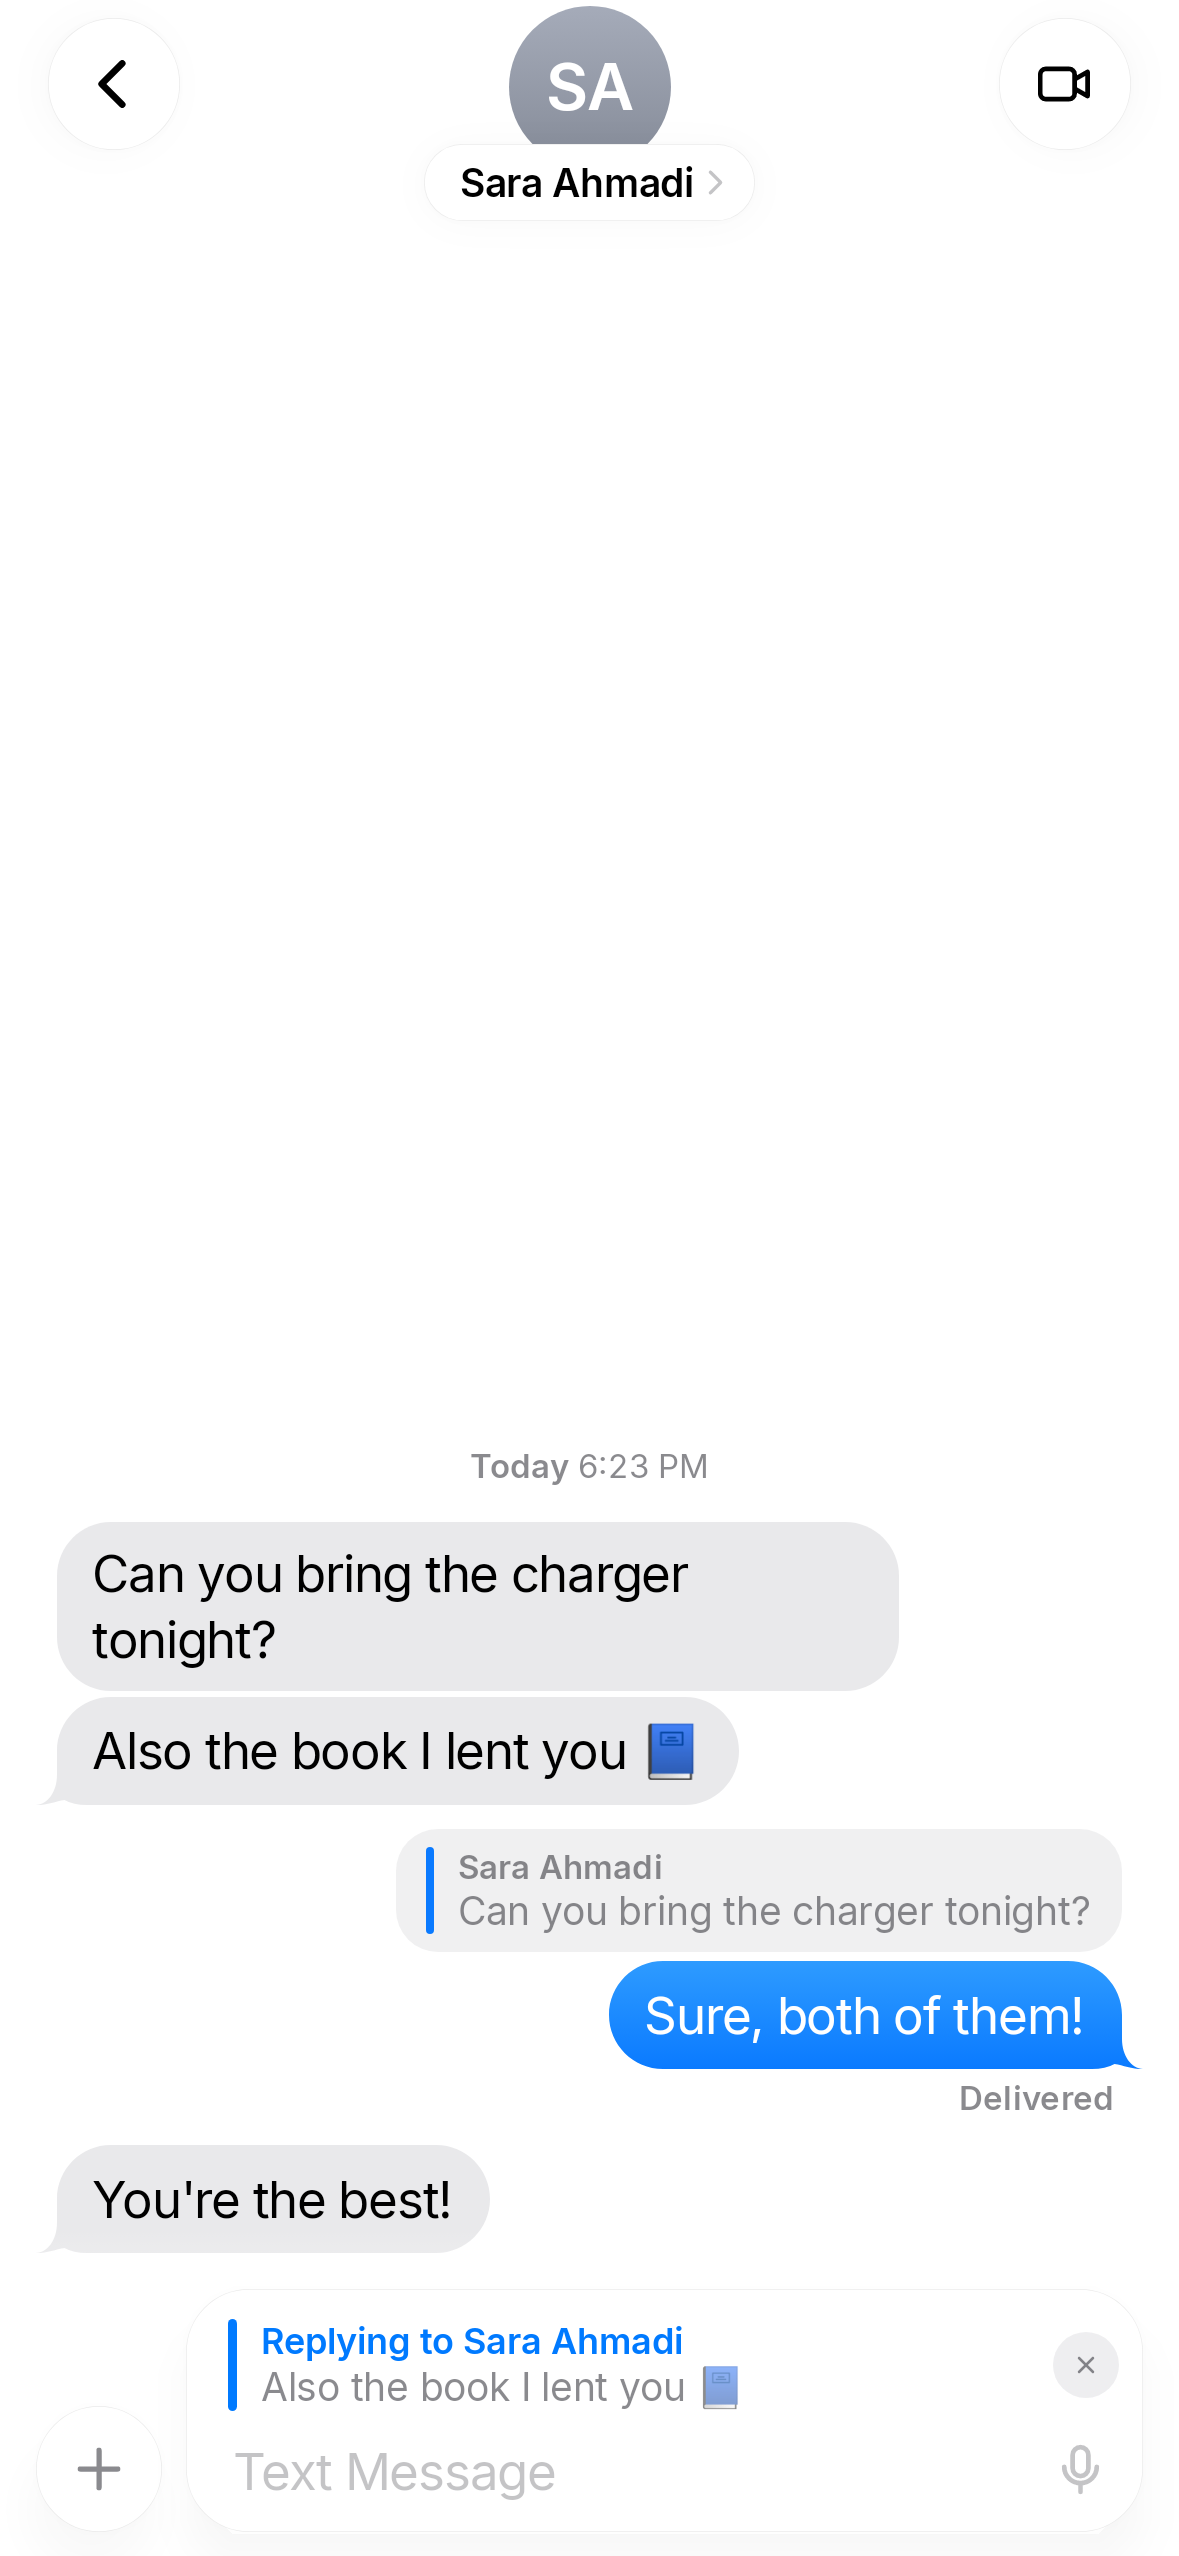
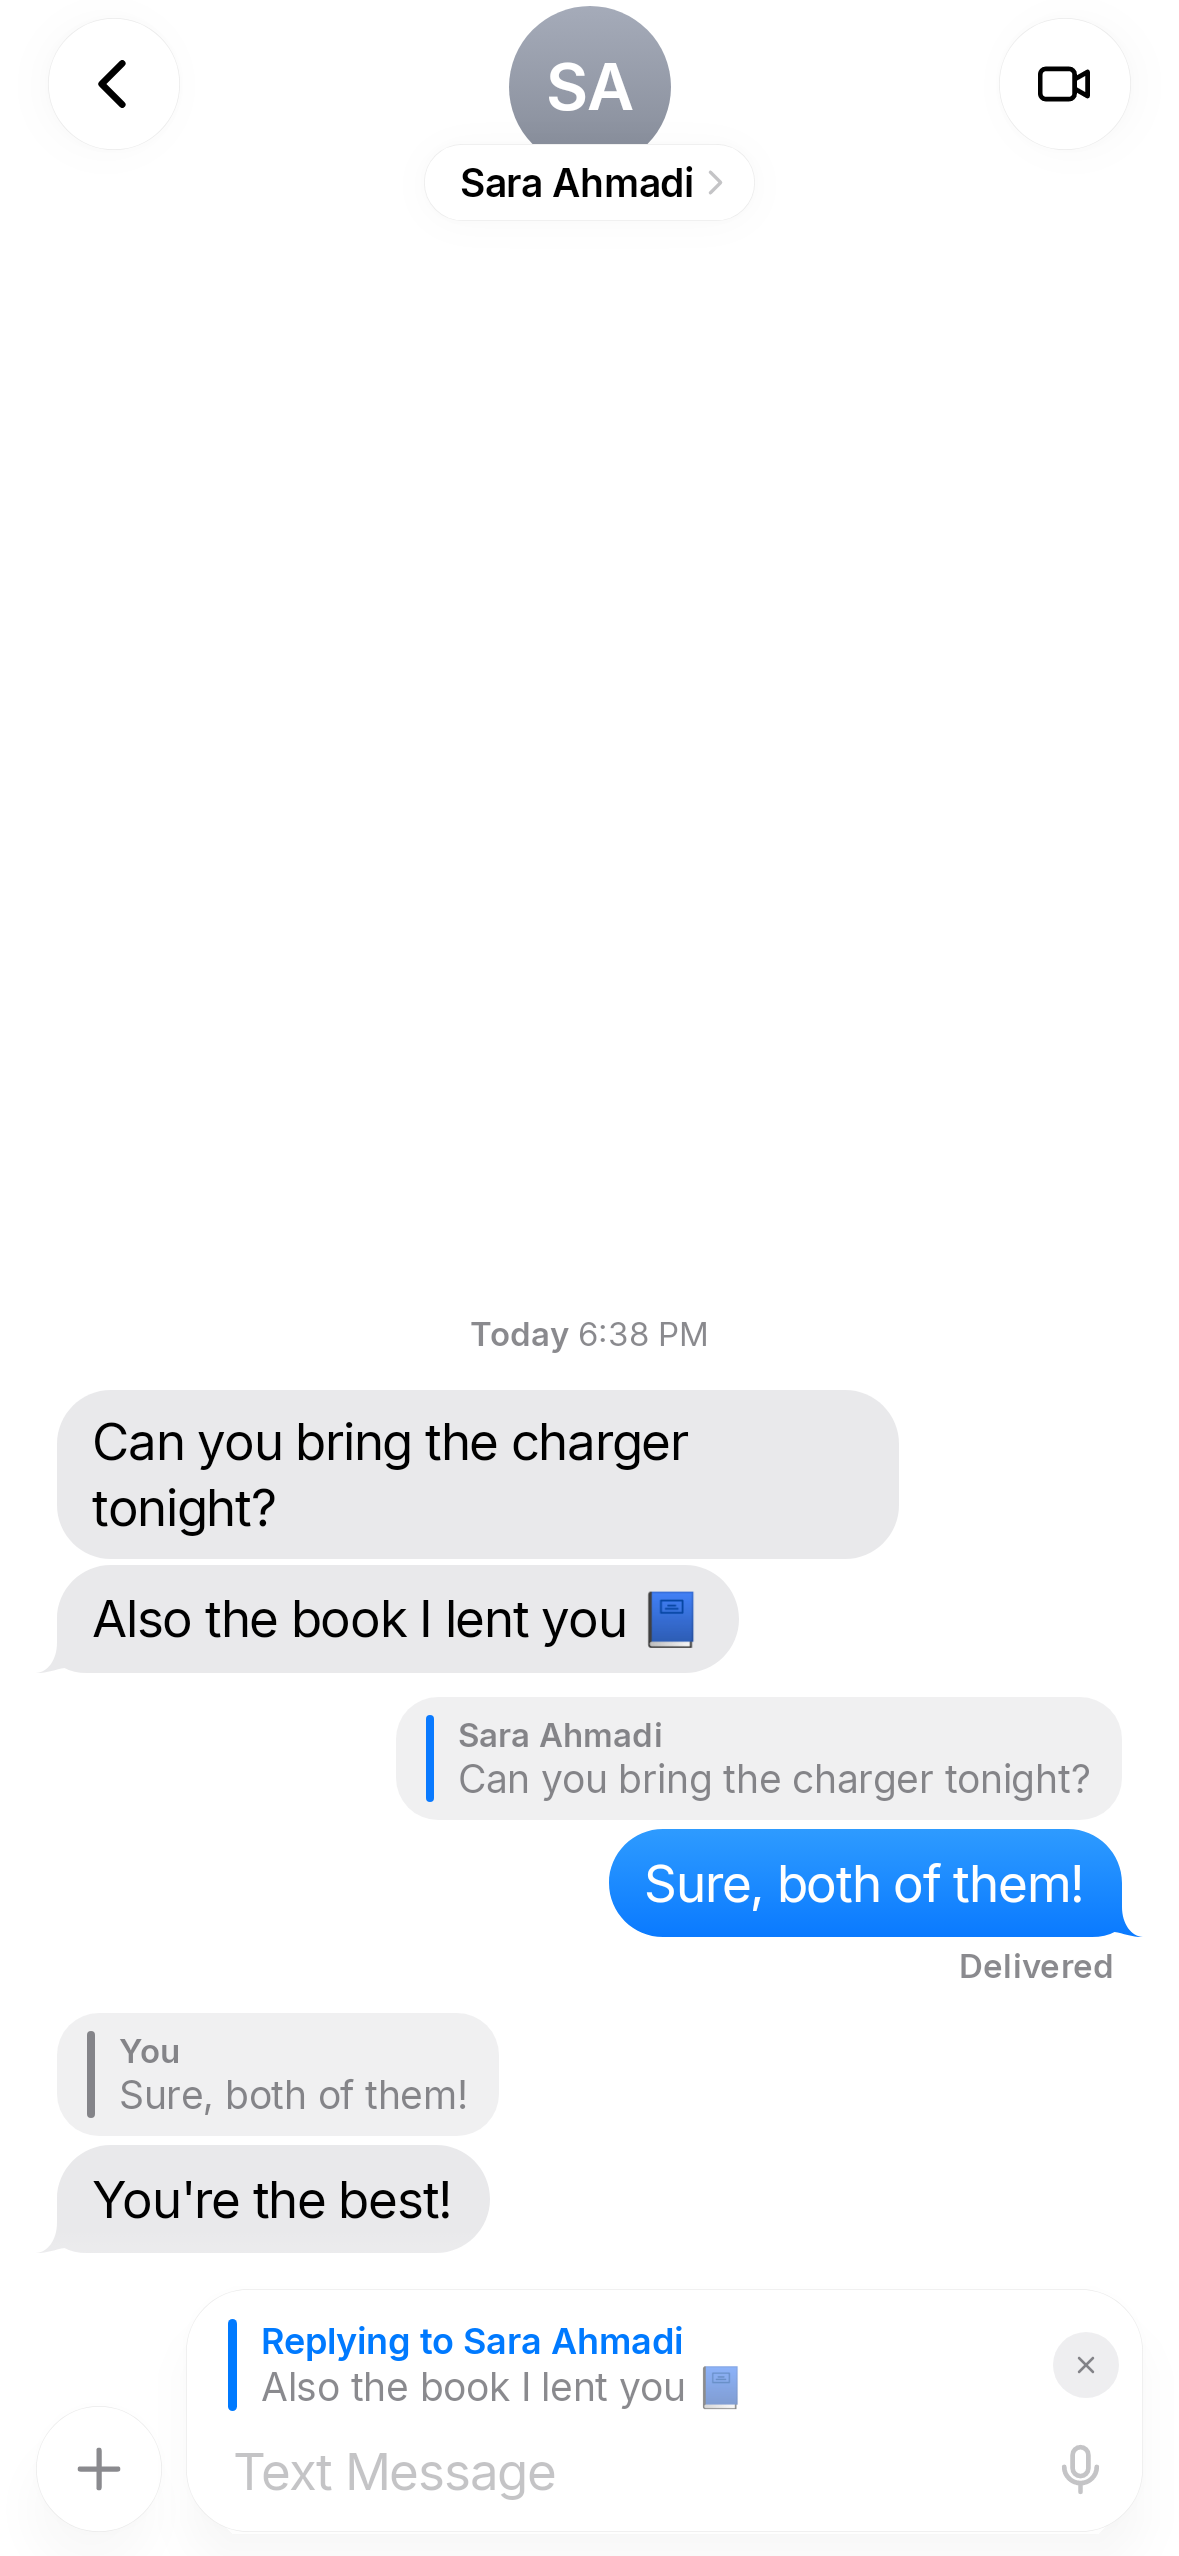
Send replies to the recipient as a quote line
Replies now start with "↪ «short quote»" so the other phone's Liquid
Messages links them to the original (matched by text), while any other
app shows a readable quote. MessageText centralises what's visible
(quote and effect lines removed) for bubbles, previews, copy and
notifications.

diff --git a/app/src/main/java/com/liquidglass/messages/data/model/MessageText.kt b/app/src/main/java/com/liquidglass/messages/data/model/MessageText.kt
@@ -1,0 +1,70 @@
+package com.liquidglass.messages.data.model
+
+import com.liquidglass.messages.data.location.LocationLink
+
+/**
+ * Carries a reply inside a plain SMS as a short quote on the first line —
+ * readable in any messaging app, and turned back into a linked reply by
+ * Liquid Messages on the other phone:
+ *
+ *     ↪ «Can you bring the charger…»
+ *     Sure, both of them!
+ */
+object ReplyTag {
+
+    /** Longest quoted snippet; keeps the SMS from spilling into a second part. */
+    const val MAX_SNIPPET = 30
+    private const val ELLIPSIS = "…"
+
+    private val lineRegex = Regex("""^\s*↪\s*«(.{1,${MAX_SNIPPET + 2}}?)»[ \t]*(?:\r?\n|$)""")
+
+    data class Parsed(val text: String, val quote: String?)
+
+    /** Prefixes [body] with a quote of [original] (the message being answered). */
+    fun format(original: Message, body: String): String = "↪ «${snippet(original)}»\n$body"
+
+    fun parse(body: String): Parsed {
+        val m = lineRegex.find(body) ?: return Parsed(body, null)
+        return Parsed(body.substring(m.range.last + 1).trimStart('\n', '\r'), m.groupValues[1])
+    }
+
+    /** One-line, length-capped summary of a message for quoting. */
+    fun snippet(m: Message): String {
+        val text = MessageText.summary(m).replace(Regex("\\s+"), " ").trim()
+        return if (text.length <= MAX_SNIPPET) text else text.take(MAX_SNIPPET - 1).trimEnd() + ELLIPSIS
+    }
+
+    /**
+     * Finds the message a received quote refers to: the newest earlier message
+     * whose summary starts with the quote (ignoring whitespace and the ellipsis).
+     */
+    fun findQuoted(quote: String, reply: Message, thread: List<Message>): Message? {
+        val needle = normalize(quote.removeSuffix(ELLIPSIS))
+        if (needle.isEmpty()) return null
+        return thread.lastOrNull { m ->
+            m.id != reply.id && m.timestamp <= reply.timestamp && normalize(MessageText.summary(m)).startsWith(needle)
+        }
+    }
+
+    private fun normalize(s: String) = s.replace(Regex("\\s+"), " ").trim().lowercase()
+}
+
+/** The human-visible parts of a stored message body. */
+object MessageText {
+
+    /** Body with the reply quote line and the effect line removed. */
+    fun visible(body: String): String = EffectTag.strip(ReplyTag.parse(body).text)
+
+    /** Short description used for previews, quotes and notifications. */
+    fun summary(m: Message): String {
+        val visible = visible(m.body)
+        val loc = LocationLink.parse(visible)
+        return when {
+            loc != null -> loc.remainingText.ifBlank { "📍 " + (loc.label ?: "Location") }
+            visible.isBlank() && m.attachments.any { it.isImage } -> "📷 Photo"
+            visible.isBlank() && m.attachments.any { it.isVideo } -> "🎬 Video"
+            visible.isBlank() && m.attachments.isNotEmpty() -> "📎 Attachment"
+            else -> visible
+        }
+    }
+}

diff --git a/app/src/main/java/com/liquidglass/messages/ui/chat/ChatScreen.kt b/app/src/main/java/com/liquidglass/messages/ui/chat/ChatScreen.kt
@@ -270,15 +270,7 @@ fun ChatContent(
             state.isGroup -> state.participants[m.address]?.displayName ?: m.address
             else -> state.contact.displayName
         }
-        val visible = com.liquidglass.messages.data.model.EffectTag.strip(m.body)
-        val loc = com.liquidglass.messages.data.location.LocationLink.parse(visible)
-        val text = when {
-            loc != null -> loc.remainingText.ifBlank { "📍 " + (loc.label ?: "Location") }
-            visible.isBlank() && m.attachments.any { it.isImage } -> "📷 Photo"
-            visible.isBlank() && m.attachments.isNotEmpty() -> "📎 Attachment"
-            else -> visible
-        }
-        return ReplyPreview(author, text)
+        return ReplyPreview(author, com.liquidglass.messages.data.model.MessageText.summary(m))
     }
     val jumpScope = rememberCoroutineScope()
     var highlightId by remember { mutableStateOf<Long?>(null) }
@@ -352,8 +344,15 @@ fun ChatContent(
                                     }
                                 }
                             }
-                            val quotedId = meta?.replyTo
+                            // Our own replies are linked locally; received ones carry a
+                            // "↪ «quote»" line that is matched back to the original here.
+                            val quoteLine = remember(msg.body) { com.liquidglass.messages.data.model.ReplyTag.parse(msg.body).quote }
+                            val matchedId = remember(msg.id, quoteLine, messages.size) {
+                                quoteLine?.let { q -> com.liquidglass.messages.data.model.ReplyTag.findQuoted(q, msg, messages)?.id }
+                            }
+                            val quotedId = meta?.replyTo ?: matchedId
                             val quoted = quotedId?.let { messagesById[it] }?.let(::previewOf)
+                                ?: quoteLine?.let { ReplyPreview(author = "Reply", text = it) }
                             val bubble: @Composable () -> Unit = {
                                 MessageBubble(
                                     message = msg,
@@ -512,7 +511,7 @@ fun ChatContent(
                         menuTarget = null
                     },
                     onCopy = {
-                        copyToClipboard(context, com.liquidglass.messages.data.model.EffectTag.strip(target.body))
+                        copyToClipboard(context, com.liquidglass.messages.data.model.MessageText.visible(target.body))
                         menuTarget = null
                     },
                     onDelete = {

diff --git a/app/src/test/java/com/liquidglass/messages/data/model/ReplyTagTest.kt b/app/src/test/java/com/liquidglass/messages/data/model/ReplyTagTest.kt
@@ -1,0 +1,52 @@
+package com.liquidglass.messages.data.model
+
+import org.junit.Assert.assertEquals
+import org.junit.Assert.assertNull
+import org.junit.Assert.assertTrue
+import org.junit.Test
+
+class ReplyTagTest {
+
+    private fun msg(id: Long, body: String, out: Boolean, t: Long) =
+        Message(id = id, threadId = 1, address = "+1", body = body, timestamp = t, isOutgoing = out)
+
+    @Test
+    fun formatAndParseRoundTrip() {
+        val original = msg(1, "Can you bring the charger tonight please?", false, 1)
+        val wire = ReplyTag.format(original, "Sure, both of them!")
+        assertTrue(wire.startsWith("↪ «Can you bring the charger ton…»\n"))
+        val parsed = ReplyTag.parse(wire)
+        assertEquals("Sure, both of them!", parsed.text)
+        assertEquals("Can you bring the charger ton…", parsed.quote)
+    }
+
+    @Test
+    fun receiverFindsTheQuotedMessage() {
+        val thread = listOf(
+            msg(1, "Can you bring the charger tonight please?", true, 10),
+            msg(2, "Also the book", true, 20),
+            msg(3, "↪ «Can you bring the charger ton…»\nSure!", false, 30),
+        )
+        val quote = ReplyTag.parse(thread[2].body).quote!!
+        assertEquals(1L, ReplyTag.findQuoted(quote, thread[2], thread)!!.id)
+    }
+
+    @Test
+    fun worksWithPersianEffectsAndLocations() {
+        val loc = msg(1, "📍 My Location\nhttps://maps.google.com/?q=35.7,51.4", false, 1)
+        assertEquals("📍 My Location", ReplyTag.snippet(loc))
+        val fa = msg(2, "سلام! فردا ساعت ۵ میبینمت؟\n(Sent with Big effect)", false, 2)
+        assertEquals("سلام! فردا ساعت ۵ میبینمت؟", ReplyTag.snippet(fa))
+
+        val reply = "↪ «سلام! فردا ساعت ۵ میبینمت؟»\nآره حتماً\n(Sent with Shake effect)"
+        assertEquals("آره حتماً", MessageText.visible(reply))
+        val thread = listOf(loc, fa, msg(3, reply, true, 3))
+        assertEquals(2L, ReplyTag.findQuoted(ReplyTag.parse(reply).quote!!, thread[2], thread)!!.id)
+    }
+
+    @Test
+    fun ordinaryTextIsUntouched() {
+        assertNull(ReplyTag.parse("hello «world»").quote)
+        assertEquals("hello «world»", MessageText.visible("hello «world»"))
+    }
+}

diff --git a/app/src/main/java/com/liquidglass/messages/ui/chat/ChatViewModel.kt b/app/src/main/java/com/liquidglass/messages/ui/chat/ChatViewModel.kt
@@ -12,6 +12,7 @@ import com.liquidglass.messages.data.local.MessageMeta
 import com.liquidglass.messages.data.local.MessageMetaStore
 import com.liquidglass.messages.data.model.Contact
 import com.liquidglass.messages.data.model.EffectTag
+import com.liquidglass.messages.data.model.ReplyTag
 import com.liquidglass.messages.data.model.Message
 import com.liquidglass.messages.data.model.MessageEffect
 import com.liquidglass.messages.data.model.Reaction
@@ -243,7 +244,9 @@ class ChatViewModel(
         val group = _uiState.value.isGroup
         // The effect travels as iOS does over SMS: a readable "(Sent with … effect)"
         // line that Liquid Messages on the other phone turns back into the animation.
-        val wire = if (text.isBlank()) text else EffectTag.append(text, effect)
+        val withEffect = if (text.isBlank()) text else EffectTag.append(text, effect)
+        // Replies travel as a short quote line so the other phone can link them too.
+        val wire = if (reply != null && withEffect.isNotBlank()) ReplyTag.format(reply, withEffect) else withEffect
 
         val later = _sendLaterAt.value
         if (later != null && files.isEmpty() && !group) {

diff --git a/app/src/main/java/com/liquidglass/messages/ui/chat/MessageBubble.kt b/app/src/main/java/com/liquidglass/messages/ui/chat/MessageBubble.kt
@@ -99,12 +99,12 @@ fun MessageBubble(
     val outgoing = message.isOutgoing
     val failed = outgoing && message.status == MessageStatus.FAILED
     // A shared location renders as a map card; any other text stays a bubble.
-    val visibleBody = remember(message.body) { EffectTag.strip(message.body) }
+    val visibleBody = remember(message.body) { com.liquidglass.messages.data.model.MessageText.visible(message.body) }
     val location = remember(visibleBody) { LocationLink.parse(visibleBody) }
     val bodyText = location?.remainingText ?: visibleBody
     val rtl = TextDirection.isRtl(bodyText)
     val jumbo = remember(message.body) {
-        val visible = EffectTag.strip(message.body)
+        val visible = com.liquidglass.messages.data.model.MessageText.visible(message.body)
         jumboEmojiCount(LocationLink.parse(visible)?.remainingText ?: visible)
     }
 

diff --git a/app/src/main/java/com/liquidglass/messages/ui/conversations/ConversationRow.kt b/app/src/main/java/com/liquidglass/messages/ui/conversations/ConversationRow.kt
@@ -187,7 +187,7 @@ fun ConversationRow(
                 }
                 Text(
                     text = remember(conversation.snippet) {
-                        val visible = com.liquidglass.messages.data.model.EffectTag.strip(conversation.snippet)
+                        val visible = com.liquidglass.messages.data.model.MessageText.visible(conversation.snippet)
                         val loc = com.liquidglass.messages.data.location.LocationLink.parse(visible)
                         if (loc == null) visible
                         else loc.remainingText.ifBlank { "📍 " + (loc.label ?: "Location") }

diff --git a/app/src/main/java/com/liquidglass/messages/data/receiver/SmsDeliverReceiver.kt b/app/src/main/java/com/liquidglass/messages/data/receiver/SmsDeliverReceiver.kt
@@ -76,7 +76,7 @@ class SmsDeliverReceiver : BroadcastReceiver() {
                     threadId = threadId,
                     address = address,
                     // Notification shows the text without an "(Sent with … effect)" line.
-                    body = com.liquidglass.messages.data.model.EffectTag.strip(body),
+                    body = com.liquidglass.messages.data.model.MessageText.visible(body),
                     timestamp = timestamp,
                     isOutgoing = false,
                     status = com.liquidglass.messages.data.model.MessageStatus.RECEIVED,

diff --git a/app/src/test/java/com/liquidglass/messages/ReadmeScreenshots.kt b/app/src/test/java/com/liquidglass/messages/ReadmeScreenshots.kt
@@ -112,7 +112,8 @@ class ReadmeScreenshots {
             m(1, "Can you bring the charger tonight?", false, 20),
             m(2, "Also the book I lent you 📘", false, 19),
             m(3, "Sure, both of them!", true, 5, MessageStatus.DELIVERED),
-            m(4, "You're the best!\n(Sent with Big effect)", false, 2),
+            // A reply that arrived from another phone: quote line + effect line.
+            m(4, "↪ «Sure, both of them!»\nYou're the best!\n(Sent with Big effect)", false, 2),
         )
         ChatContent(
             state = ChatUiState(

diff --git a/CHANGELOG.md b/CHANGELOG.md
@@ -2,6 +2,7 @@
 
 ## 1.7.0 — 2026-09-25
 - **Reply to a message**: swipe right on any bubble or choose *Reply*; the reply shows a tappable quote that jumps to the original
+- **Replies reach the other phone**: a short “↪ «quote»” first line travels with the SMS; Liquid Messages on the other side links it to the original message, other apps show a readable quote
 - **Effects reach the other phone**: sent as a readable “(Sent with … effect)” line, like iPhones do over SMS — Liquid Messages hides it and plays the animation (iPhone effect names such as Slam or Loud are recognised too)
 - Persian and other right-to-left text now types right-aligned with correct word order in the composer, search and “To:” fields
 
